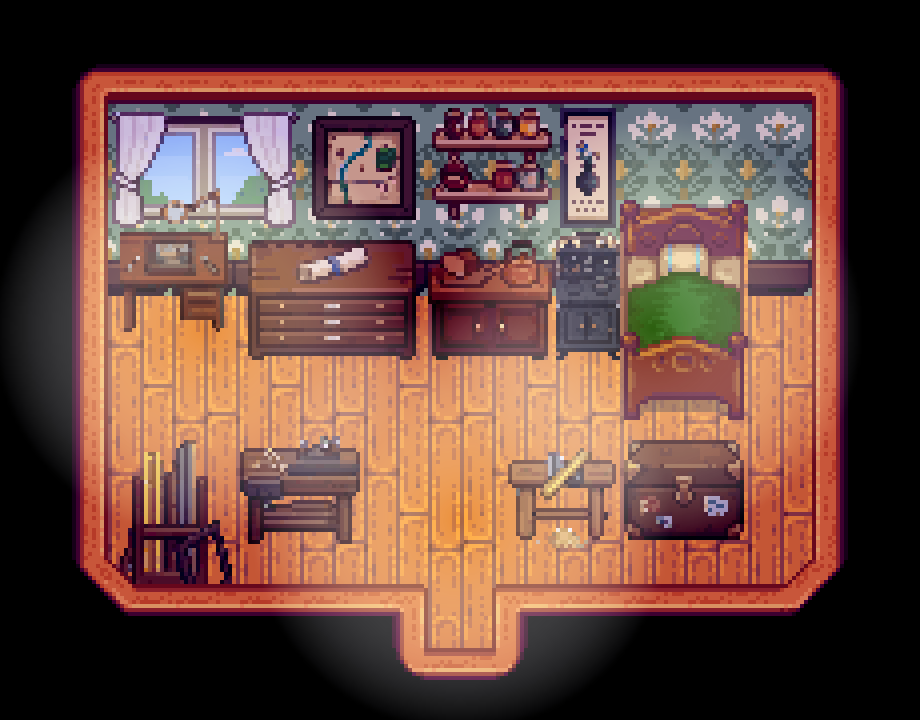
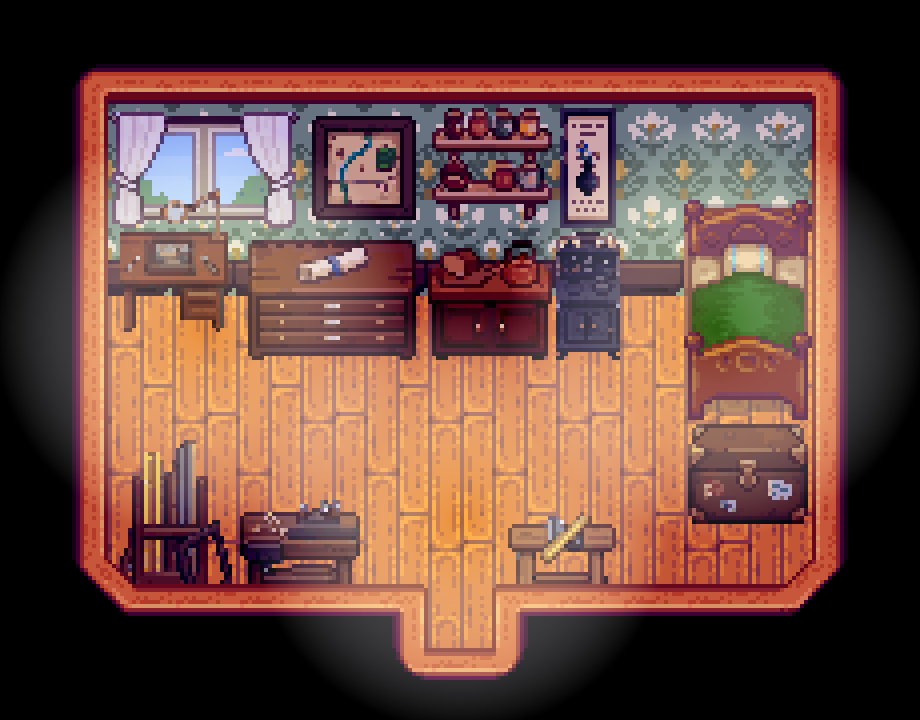
Margot's cottage: bed into the corner, trunk at its foot, workshop to the wall
The bed moves a tile right, leaving room beside the stove to get in; the
trunk's art is lifted 4 pixels so it sits tight against the bed's foot;
the workbench and mitre-box sawhorse stand against the bottom wall, their
feet behind its edge.

Changed region(s): [[0.487, 0.1833, 1.0, 0.825], [0.2435, 0.6111, 0.3957, 0.825]]

diff --git a/tools/build_margot_room.py b/tools/build_margot_room.py
@@ -82,6 +82,10 @@ SOURCES = {
 }
 # The mod's wallpapers, in order (Wallpapers.png): her damask, then the
 # guest room's candidates.
+# Pieces lifted on the sheet by a few pixels: the trunk's art has blank
+# rows above it, so it would sit apart from the foot of the bed it stands
+# below (2026-11-02: the user asked for it tight to the bed's end).
+LIFT = {"trunk": 4}
 WALLPAPERS = [("stardew-margot-walls", "wall_damask", 4), ("stardew-margot-guest", "wall_stripe", 0),
               ("stardew-margot-guest", "wall_rosebud", 2), ("stardew-margot-guest", "wall_panel", 3)]
 SHEET_COLS = 8                        # MargotRoom.png is 128 wide
@@ -103,16 +107,18 @@ ROOMS = {
     # restoration table), a workroom and a little kitchen. Along the back
     # wall her table under the window, the plan chest under the map of the
     # valley, the kitchen (a counter with a kettle, a cookstove, a shelf of
-    # jars above) and her bed; her frame workshop along the left (the
-    # moulding rack, the frame workbench and the mitre-box sawhorse), her
-    # trunk, and the museum poster; the way to the door kept clear. (The
-    # window goes first so the table's lamp draws over it.)
+    # jars above) and her bed in the corner, a tile clear of the stove so
+    # she can get in, her trunk tight to its foot; her frame workshop along
+    # the bottom wall (the moulding rack, the frame workbench and the
+    # mitre-box sawhorse, their feet behind the wall's edge), and the museum
+    # poster; the way to the door kept clear. (The window goes first so the
+    # table's lamp draws over it.)
     "MargotCottage": dict(
         cols=list(range(13)), rows=[0, 1, 2, 3, 4, 5, 6, 7, 12, 13],
-        exit=(6, 9), warp="Town 21 97", lights=[(2, 4), (9, 4), (6, 7)], bed=(9, 2), wallpaper=0,
+        exit=(6, 9), warp="Town 21 97", lights=[(2, 4), (10, 4), (6, 7)], bed=(10, 2), wallpaper=0,
         pieces={"window": ((1, 1), 0), "table": ((1, 2), 1), "chest": ((3, 3), 1), "map": ((4, 1), 0),
                 "counter": ((6, 3), 1), "stove": ((8, 3), 1), "shelf": ((6, 1), 0), "poster": ((8, 1), 0),
-                "trunk": ((9, 6), 1), "rack": ((1, 6), 1), "bench": ((3, 6), 1), "mitre": ((7, 6), 1)}),
+                "trunk": ((10, 6), 1), "rack": ((1, 6), 1), "bench": ((3, 7), 1), "mitre": ((7, 7), 1)}),
     # Her Saloon room once she's moved to the cottage: Gus's guest room
     # (data/margot.json loads it in her room's place). Its walls are a new
     # wall area ("GuestWall"), so the game papers them afresh rather than
@@ -147,6 +153,10 @@ def pack(gen):
     for name, source in SOURCES.items():
         batch, job = source[0], "_".join(str(p) for p in source[1:])
         im = selout(Image.open(os.path.join(gen, batch, f"{job}.png")).convert("RGBA"))
+        if name in LIFT:
+            lifted = Image.new("RGBA", im.size, (0, 0, 0, 0))
+            lifted.alpha_composite(im.crop((0, LIFT[name], im.width, im.height)), (0, 0))
+            im = lifted
         images[name] = im
         cols, rows = im.width // 16, im.height // 16
         if x + cols > SHEET_COLS:
